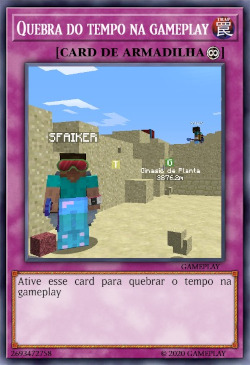
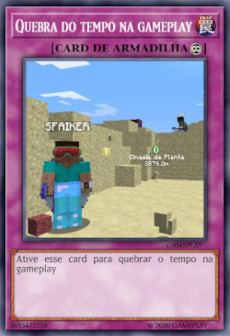
add

diff --git a/desafios/ds_gameplay/source/css/style.css b/desafios/ds_gameplay/source/css/style.css
@@ -22,6 +22,7 @@
     --corfundo: white;
     --cortitulo: black;
     --cortexto: rgb(78, 3, 78);
+    --corexibicao: rgba(255, 255, 255, 0.873);
     --corbotaofixa: white;
     --corbotaoalternar: blue;
     --corbotaoalternartexto: white;
@@ -43,7 +44,7 @@ body#login {
 }
 
 body#cards{
-    background-image: url(../imagem/fundoCartasPequeno.jpg);
+    background-image: url(../imagem/jadespelho.jpg);
 }
 
 main {
@@ -72,15 +73,14 @@ h1.tituloPrincipal {
     text-decoration: underline;
     font-family: var(--fonte-titulo);
     margin-top: 10px;
-    font-size: 2.5em;
+    font-size: 2.3em;
     color: gold;
 }
 
-section.contexto {
+section.contextoCarta {
     margin: auto;
-    height: 210px;
-    width: 200px;
-    background-color: rgba(255, 255, 255, 0.873);
+    height: 150px;
+    background-color: var(--corexibicao);
     border: 5px solid rgba(0, 0, 0, 0.734);
     border-radius: 5px;
 }
@@ -89,8 +89,7 @@ section.exibicao {
     padding: 25px;
     height: 400px;
     width: 400px;
-    margin: auto;
-    background-color: rgba(255, 255, 255, 0.873);
+    background-color: var(--corexibicao);
     border: 5px solid rgba(0, 0, 0, 0.877);
     border-radius: 5px;
 }
@@ -124,8 +123,8 @@ p.textoCarta {
 section.botoes {
     position: absolute;
     display: flex;
-    top: 90vh;
-    left: 41.5vw;
+    top: 85vh;
+    left: 15vw;
     width: 250px;
     z-index: 10;
     justify-content: space-between;

diff --git a/desafios/ds_gameplay/paginaCards.html b/desafios/ds_gameplay/paginaCards.html
@@ -16,7 +16,7 @@
                 Quebra do tempo na Gameplay
             </h1>
             <img src="source/imagem/imagem (1).jpg" alt="foto" class="imagemCarta">
-            <section class="contexto">
+            <section class="contextoCarta">
                 <p class="textoCarta"> Ative esse card para quebrar o tempo na Gameplay.</p> 
             </section>
         </section>
@@ -25,7 +25,7 @@
                TROCA DE PELE NA GAMEPLAY 
             </h1>
             <img src="source/imagem/imagem (2).jpg" alt="foto" class="imagemCarta">
-            <section class="contexto">
+            <section class="contextoCarta">
                 <p class="texto"> OFEREÇA UM MONSTRO "GAMEPLAY" COMO TRIBUTO, INVOQUE POR INVOCAÇÃO ESPECIAL UM MONSTRO "GAMEPLAY" DO SEU DECK OU CEMITÉRIO COM NOME DIFERENTE DO MONSTRO OFERECIDO COMO TRIBUTO. VOCÊ SÓ PODE INVOCAR MONSTROS "GAMEPLAY" PELO RESTO DESTE TURNO. VOCÊ SÓ PODE ATIVAR UM "TROCA DE PELE NA GAMEPLAY" POR TURNO.</p>
             </section>
         </section>
@@ -33,7 +33,6 @@
             <button type="button" class="botao">Retroceder</button>
             <button type="button" class="botao">Avancar</button>
         </section>
-        
     </main>
     <script src="source/js/script.js">
     </script>

diff --git a/desafios/ds_gameplay/source/css/responsive.css b/desafios/ds_gameplay/source/css/responsive.css
@@ -16,8 +16,13 @@
     } 
 
     body#cards {
-        background-image: url(../imagem/fundoCartas.jpg);
+        background-image: url(../imagem/jadespelho.jpg);
     }
 
+    section.contextoCarta {
+        max-width: 500px;
+    }
+
+    
    
 }
